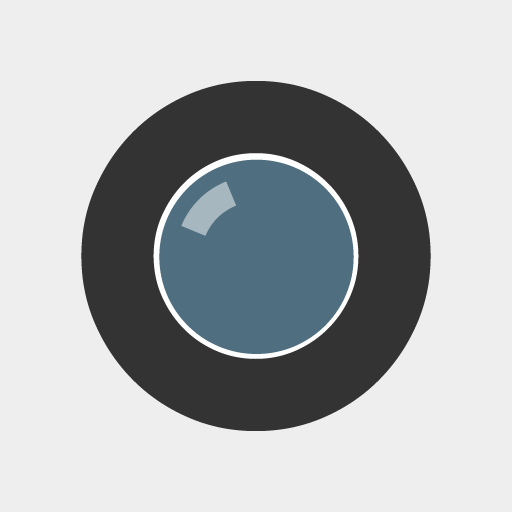
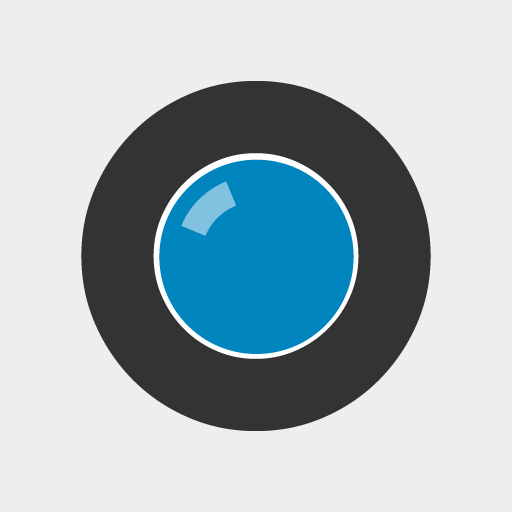
using new brighter blue color

Changed region(s): [[0.3125, 0.3125, 0.6875, 0.7188]]

diff --git a/oec/static/css/styles.general.css b/oec/static/css/styles.general.css
@@ -77,7 +77,7 @@ only screen and (                min-resolution: 2dppx) {
 /*************************/
 .content {
   background-color: rgba(255,255,255,0.75);
-  border: 1px solid #4f6d7f;
+  border: 1px solid #0085BF;
   margin: 0px auto 20px;
   width: 1000px;
 }
@@ -116,23 +116,38 @@ only screen and (                min-resolution: 2dppx) {
   margin: 0;
 }
 
+/**********************/
+/* Anchor Link Styles */
+/**********************/
+a {
+  color: #0085BF;
+  font-family: "HelveticaNeue-Light", "Helvetica Neue Light", "Helvetica Neue", Helvetica, Arial, sans-serif;
+  font-weight: normal;
+  text-decoration: none;
+}
+
+a:hover {
+  color: #000000;
+  text-decoration: underline;
+}
+
 /****************/
 /* Title Styles */
 /****************/
 h2 {
-  color: #4f6d7f;
+  color: #0085BF;
   display: block;
   font-family: "HelveticaNeue-Light", "Helvetica Neue Light", "Helvetica Neue", Helvetica, Arial, sans-serif;
   font-size: 22px;
   font-weight: lighter;
-  line-height: 22px;
+  line-height: 28px;
   margin: 20px auto;
   text-align: center;
   width: 700px;
 }
 
 h3 {
-  color: #4f6d7f;
+  color: #0085BF;
   display: block;
   font-family: "HelveticaNeue-Bold", "Helvetica Neue Bold", "Helvetica Neue", Helvetica, Arial, sans-serif;
   font-size: 12px;
@@ -170,27 +185,55 @@ a:active, a:focus {
        outline-style: none;
 }
 
+/********************/
+/* Paragraph Styles */
+/********************/
 p {
   color: #444444;
   font-family: "HelveticaNeue-Thin", "Helvetica Neue Thin", "Helvetica Neue", Helvetica, Arial, sans-serif;
   font-size: 12px;
   font-weight: lighter;
   letter-spacing: 1px;
-  line-height: 14px;
+  line-height: 16px;
   margin-bottom: 20px;
 }
 
-p a {
-  color: #4f6d7f;
-  font-family: "HelveticaNeue-Light", "Helvetica Neue Light", "Helvetica Neue", Helvetica, Arial, sans-serif;
-  font-weight: normal;
+/***********************/
+/* Sidebar Menu Styles */
+/***********************/
+#sidebar ul {
+  list-style-type: none;
+}
+
+#sidebar li {
+  border-bottom: 1px solid #aaaaaa;
+}
+
+#sidebar li:last-child {
+  border-bottom: 0px;
+}
+
+#sidebar li a {
+  color: #888888;
+  display: block;
+  font-family: "HelveticaNeue-Thin", "Helvetica Neue Thin", "Helvetica Neue", Helvetica, Arial, sans-serif;
+  font-size: 12px;
+  font-weight: lighter;
+  height: 15px;
+  letter-spacing: 1px;
+  padding: 10px;
   text-decoration: none;
 }
 
-p a:hover {
-  color: #000000;
-  text-decoration: underline;
+#sidebar li a:hover {
+  color: #444444;
 }
+
+#sidebar li a.active {
+  background-color: #0085BF;
+  color: #eeeeee;
+}
+
 
 
 

diff --git a/oec/static/css/styles.nav.css b/oec/static/css/styles.nav.css
@@ -31,15 +31,18 @@ header a#logo {
 header nav ul li {
   display: inline-block;
   margin: 6px 0px;
-  width: 100px;
+  width: 110px;
 }
 
 header nav a {
   color: #888888;
   display: inline-block;
+  font-family: "HelveticaNeue-Bold", "Helvetica Neue Bold", Helvetica, Arial, sans-serif;
   font-size: 14px;
+  font-weight: bold;
   letter-spacing: 1px;
   text-decoration: none;
+  text-transform: uppercase;
   -webkit-transition: color .1s;
           transition: color .1s;
 }
@@ -50,8 +53,8 @@ header nav a:hover {
 }
 
 header nav a.current {
-  border-bottom: 1px solid #4f6d7f;
-  color: #4f6d7f;
+  border-bottom: 2px solid #0085BF;
+  color: #0085BF;
 }
 
 /******************/
@@ -76,7 +79,7 @@ footer > div#macro_connections {
 footer > p {
   color: #888888;
   display: inline-block;
-  font-family: "HelveticaNeue-Light", "Helvetica Neue Light", "Helvetica Neue", Helvetica, Arial, sans-serif;
+  font-family: "HelveticaNeue-Light", "Helvetica Neue Light", Helvetica, Arial, sans-serif;
   font-size: 10px;
   font-weight: lighter;
   line-height: 13px;

diff --git a/oec/static/css/styles.about.css b/oec/static/css/styles.about.css
@@ -1,36 +1,3 @@
-#sidebar ul {
-  list-style-type: none;
-}
-
-#sidebar li {
-  border-bottom: 1px solid #888888;
-}
-
-#sidebar li:last-child {
-  border-bottom: 0px;
-}
-
-#sidebar li a {
-  color: #888888;
-  display: block;
-  font-family: "HelveticaNeue-Thin", "Helvetica Neue Thin", "Helvetica Neue", Helvetica, Arial, sans-serif;
-  font-size: 12px;
-  font-weight: lighter;
-  height: 15px;
-  letter-spacing: 1px;
-  padding: 10px;
-  text-decoration: none;
-}
-
-#sidebar li a:hover {
-  color: #444444;
-}
-
-#sidebar li a.active {
-  background-color: #4f6d7f;
-  color: #eeeeee;
-}
-
 div.member {
   margin-bottom: 20px;
   min-height: 100px;
@@ -54,7 +21,7 @@ div.member:before {
 }
 
 div.member i {
-  margin: 10px 5px;
+  margin: 5px 1px;
 }
 
 div#alexander_simoes:before {

diff --git a/oec/static/css/styles.home.css b/oec/static/css/styles.home.css
@@ -45,7 +45,7 @@ input {
 }
 
 input:focus {
-  border: 1px solid #4f6d7f;
+  border: 1px solid #0085BF;
   color: #444444;
   opacity: 1;
 }
@@ -84,7 +84,7 @@ input:focus {
 }
 
 .tt-suggestion.tt-is-under-cursor {
-  background-color: #4f6d7f;
+  background-color: #0085BF;
 }
 
 .tt-suggestion.tt-is-under-cursor p {
